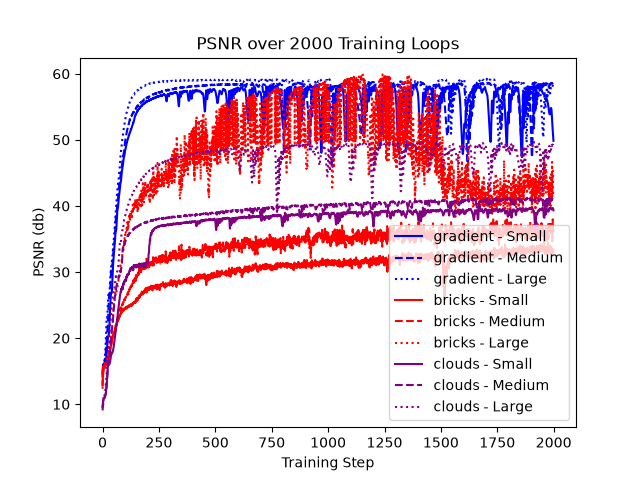
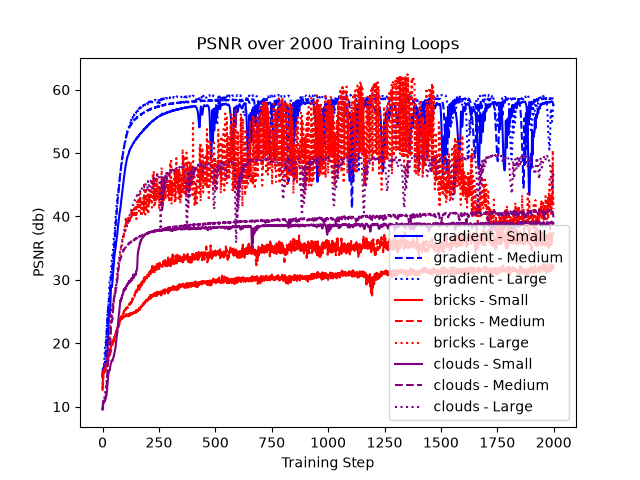
Reran with quanitzation

diff --git a/main.py b/main.py
@@ -378,7 +378,7 @@ def train_model(img: np.ndarray, coords: np.ndarray, target: np.ndarray, image: 
                     reconstructed_img[r, c, :] = predicted_colors[r * w + c]
             converted = denormalize_image(reconstructed_img)
             q_trail = "_q" if q == 1 else ""
-            Image.fromarray(converted).save(f"textures/{image}_NN_compressed_{size}{q_trail}.png")
+            Image.fromarray(converted).save(f"textures/neural_compressed/{image}_NN_compressed_{size}{q_trail}.png")
 
 ###############################################################################
 #                           Quantization                                      #
@@ -416,7 +416,11 @@ runs = [
     ("Medium", (16, 32, 64), 2, "--"),
     ("Large", (16, 32, 64, 128), 4, ":")
 ]
-images = [("gradient", "blue"), ("bricks", "red"), ("clouds", "purple")]
+images = [
+        # ("gradient", "blue"),
+            ("bricks", "red"), 
+        #    ("clouds", "purple")
+        ]
 
 if RUN_NEURAL:
     for (image, color) in images:
@@ -432,7 +436,7 @@ if RUN_NEURAL:
     plt.ylabel("PSNR (db)")
     plt.legend()
     plt.savefig('PSNR Over Training.png')
-    plt.figure(figsize=(12, 6))
+    plt.figure(figsize=(18, 6))
 
 ###############################################################################
 #                           S3TC main Loop                                    #
